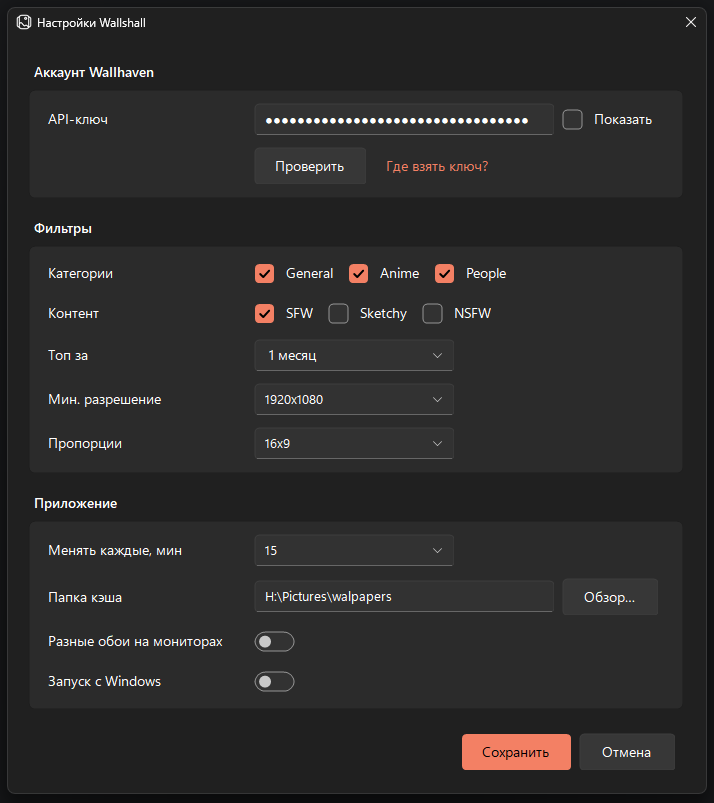
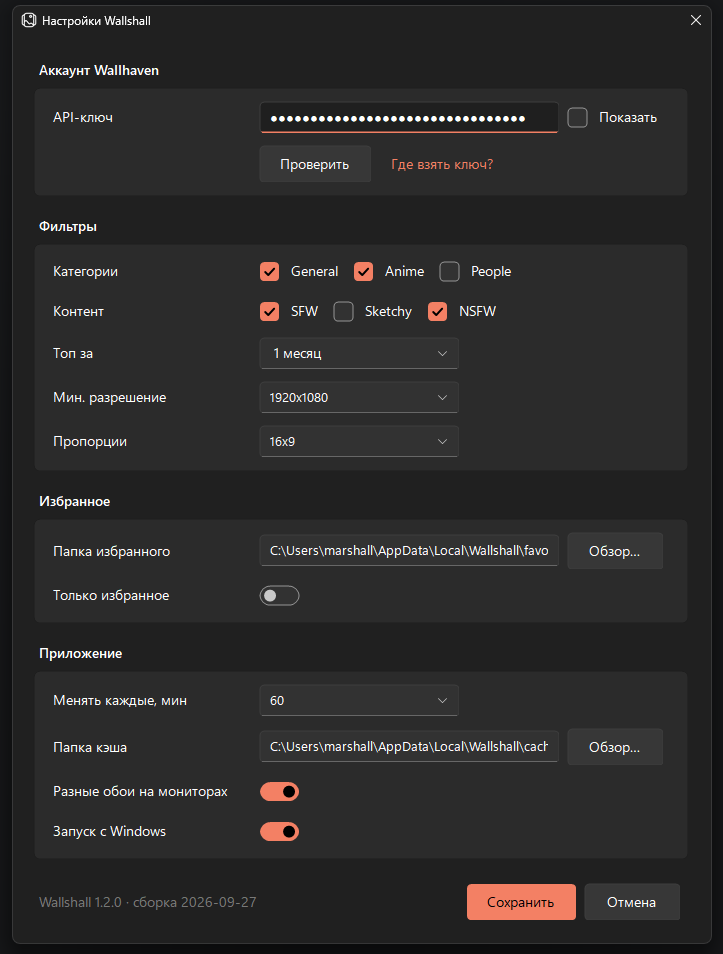
update Readme

diff --git a/README.md b/README.md
@@ -10,7 +10,8 @@
 - Страницы топа проходятся по порядку, в новый день всё начинается сначала.
 - Картинки скачиваются со страницы про запас, поэтому при недоступном сайте смена продолжается из кэша.
 - На нескольких мониторах можно включить свою картинку для каждого.
-- Настройки: API-ключ, категории, SFW / Sketchy / NSFW, период топа, минимальное разрешение, пропорции, интервал, папка кэша, разные обои на мониторах, автозапуск.
+- Понравившиеся обои сохраняются в избранное одним пунктом меню, а режим «Только избранное» крутит их по кругу.
+- Настройки: API-ключ, категории, SFW / Sketchy / NSFW, период топа, минимальное разрешение, пропорции, интервал, папки кэша и избранного, разные обои на мониторах, автозапуск.
 - API-ключ хранится зашифрованным средствами Windows (DPAPI).
 - В папке кэша трогаются только собственные файлы `wallhaven-*`, так что её можно указать хоть в «Изображения».
 
@@ -27,8 +28,37 @@
 Программа живёт в трее, своего окна у неё нет.
 
 - **Двойной клик по значку в трее** — сменить обои прямо сейчас, не дожидаясь таймера.
-- **Правый клик** открывает меню: сменить обои, настройки, открыть папку с картинками, очистить кэш, выход.
+- **Правый клик** открывает меню.
 - Наведи курсор на значок — в подсказке видно, какая картинка стоит сейчас или что пошло не так.
+
+Пункты меню:
+
+| Пункт | Что делает |
+|-------|------------|
+| Сменить обои | ставит следующую картинку, не дожидаясь таймера |
+| В избранное | сохраняет текущие обои в папку избранного; если они уже там, пункт превращается в «Убрать из избранного» |
+| Открыть на сайте | открывает страницу картинки на Wallhaven — там автор, теги и оригинал |
+| Показать в папке | открывает проводник с выделенным файлом обоев |
+| Только избранное (N) | тумблер: обои идут случайно по кругу из избранного, а не из топа. В скобках — сколько картинок в избранном |
+| Открыть избранное | открывает папку избранного |
+| Настройки… | окно настроек |
+| Очистить кэш | удаляет скачанное и историю показов; избранное не трогает |
+
+Когда на мониторах разные обои, первые три пункта заменяются строкой на каждый монитор — с миниатюрой картинки и подменю тех же действий. Так избранное собирается по одной картинке, а не сразу со всех экранов:
+
+![Меню в трее](docs/menu2.png)
+
+Мониторы называются по расположению — «Левый» и «Правый», для вертикальной пары «Верхний» и «Нижний», для трёх в ряд добавляется «Центральный». Если раскладка сложнее, они нумеруются. Звёздочка в строке означает, что картинка уже в избранном.
+
+## Избранное
+
+Избранное — это обычная папка, по умолчанию `%LOCALAPPDATA%\Wallshall\favorites`. Её можно сменить в настройках, например на папку в облаке, чтобы коллекция синхронизировалась между компьютерами.
+
+- «В избранное» копирует файл, а не переносит: оригинал остаётся в кэше и однажды будет вычищен, а копия в избранном — нет.
+- В режиме «Только избранное» картинки идут в случайном порядке, но по кругу: пока не покажутся все, ни одна не повторится. Потом круг начинается заново.
+- Свои картинки тоже работают — просто положи их в папку избранного, скачивать их с Wallhaven не нужно.
+- На нескольких мониторах за раз берутся разные картинки из избранного, а добавлять и убирать их можно по одной — через строку нужного монитора.
+- Папки кэша и избранного должны быть разными, иначе очистка кэша удалила бы коллекцию. Программа это проверяет.
 
 ## API-ключ
 
@@ -66,6 +96,7 @@ dotnet publish src/Wallshall/Wallshall.csproj -c Release -r win-x64 \
 | `settings.json` | настройки, ключ в зашифрованном виде     |
 | `state.json`    | текущая страница топа и история показов  |
 | `cache\`        | скачанные картинки (папку можно сменить) |
+| `favorites\`    | избранное (папку можно сменить)          |
 
 ## Структура проекта
 
@@ -78,7 +109,9 @@ wallshall/
 │  ├─ TrayApp.cs                 трей, таймер, смена обоев
 │  ├─ WallhavenApi.cs            запросы к сайту и скачивание картинок
 │  ├─ Cache.cs                   папка с картинками: выбор, чистка, перенос
-│  ├─ State.cs                   страница топа и история показов
+│  ├─ Favorites.cs               избранное: добавление, удаление, ротация по кругу
+│  ├─ State.cs                   страница топа, история показов, текущие обои
+│  ├─ AppInfo.cs                 название, версия и дата сборки
 │  ├─ AppSettings.cs             настройки и их хранение
 │  ├─ Autostart.cs               автозапуск через реестр
 │  ├─ Wallpaper.cs               установка обоев, в том числе по мониторам
